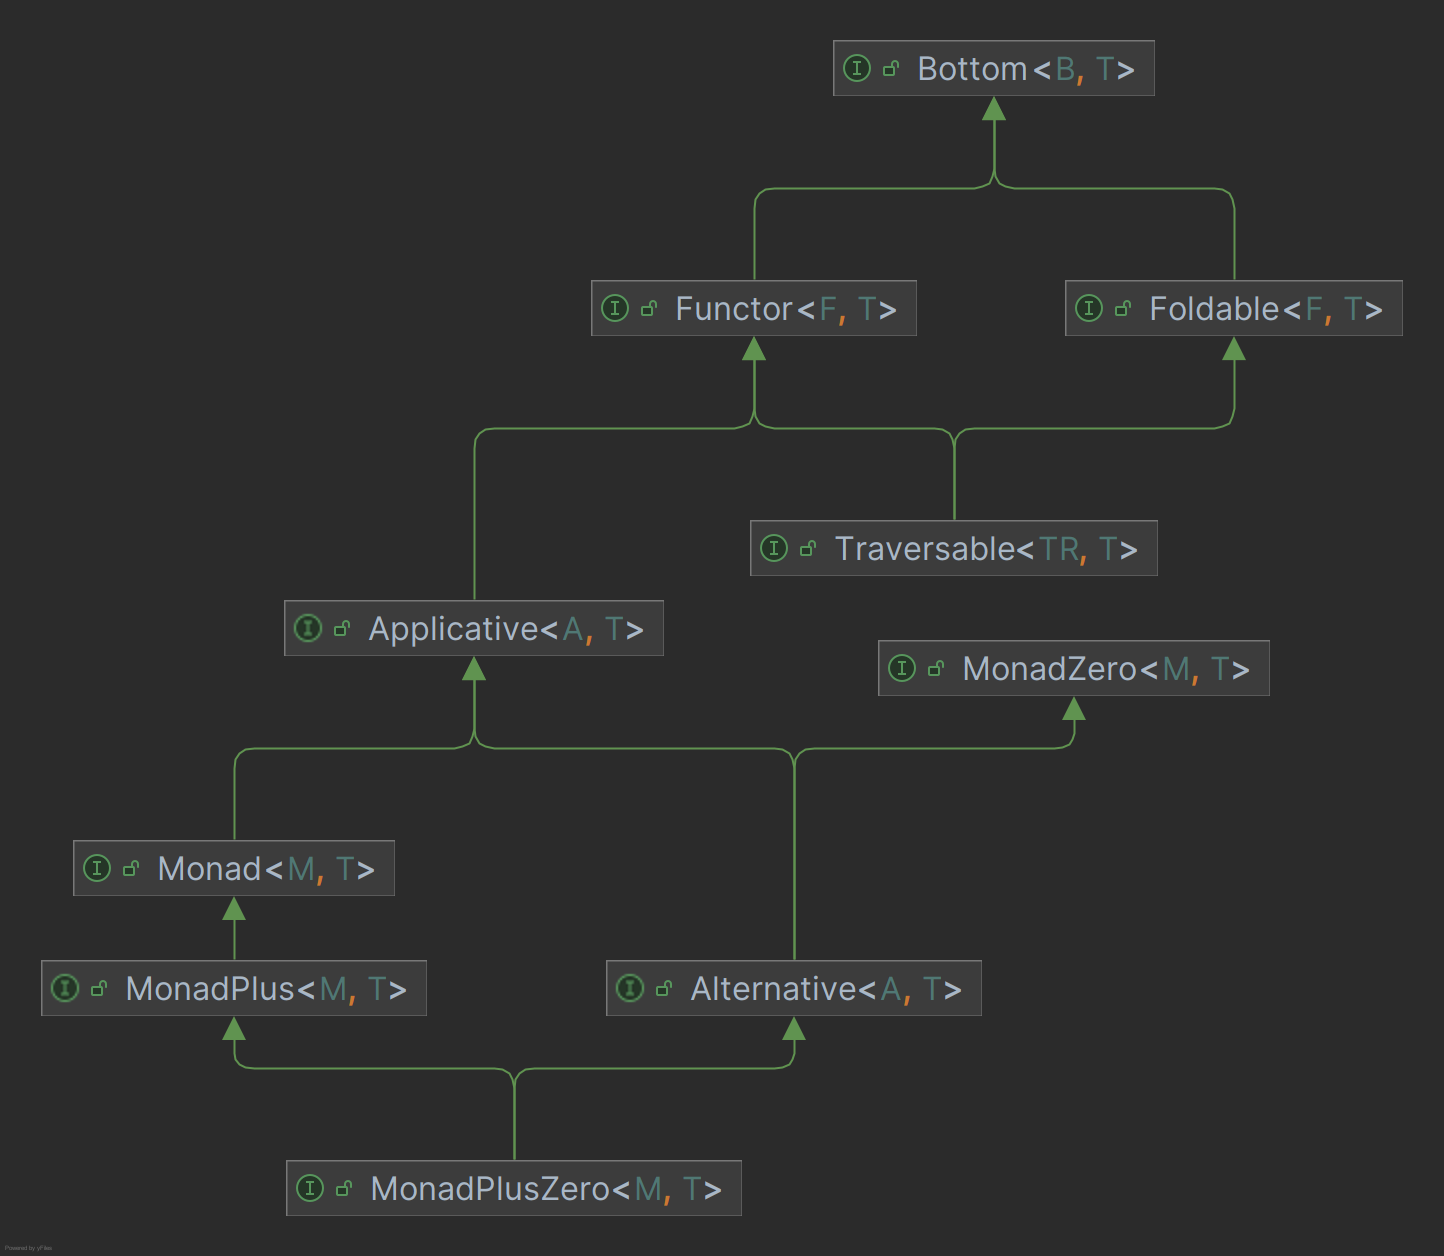
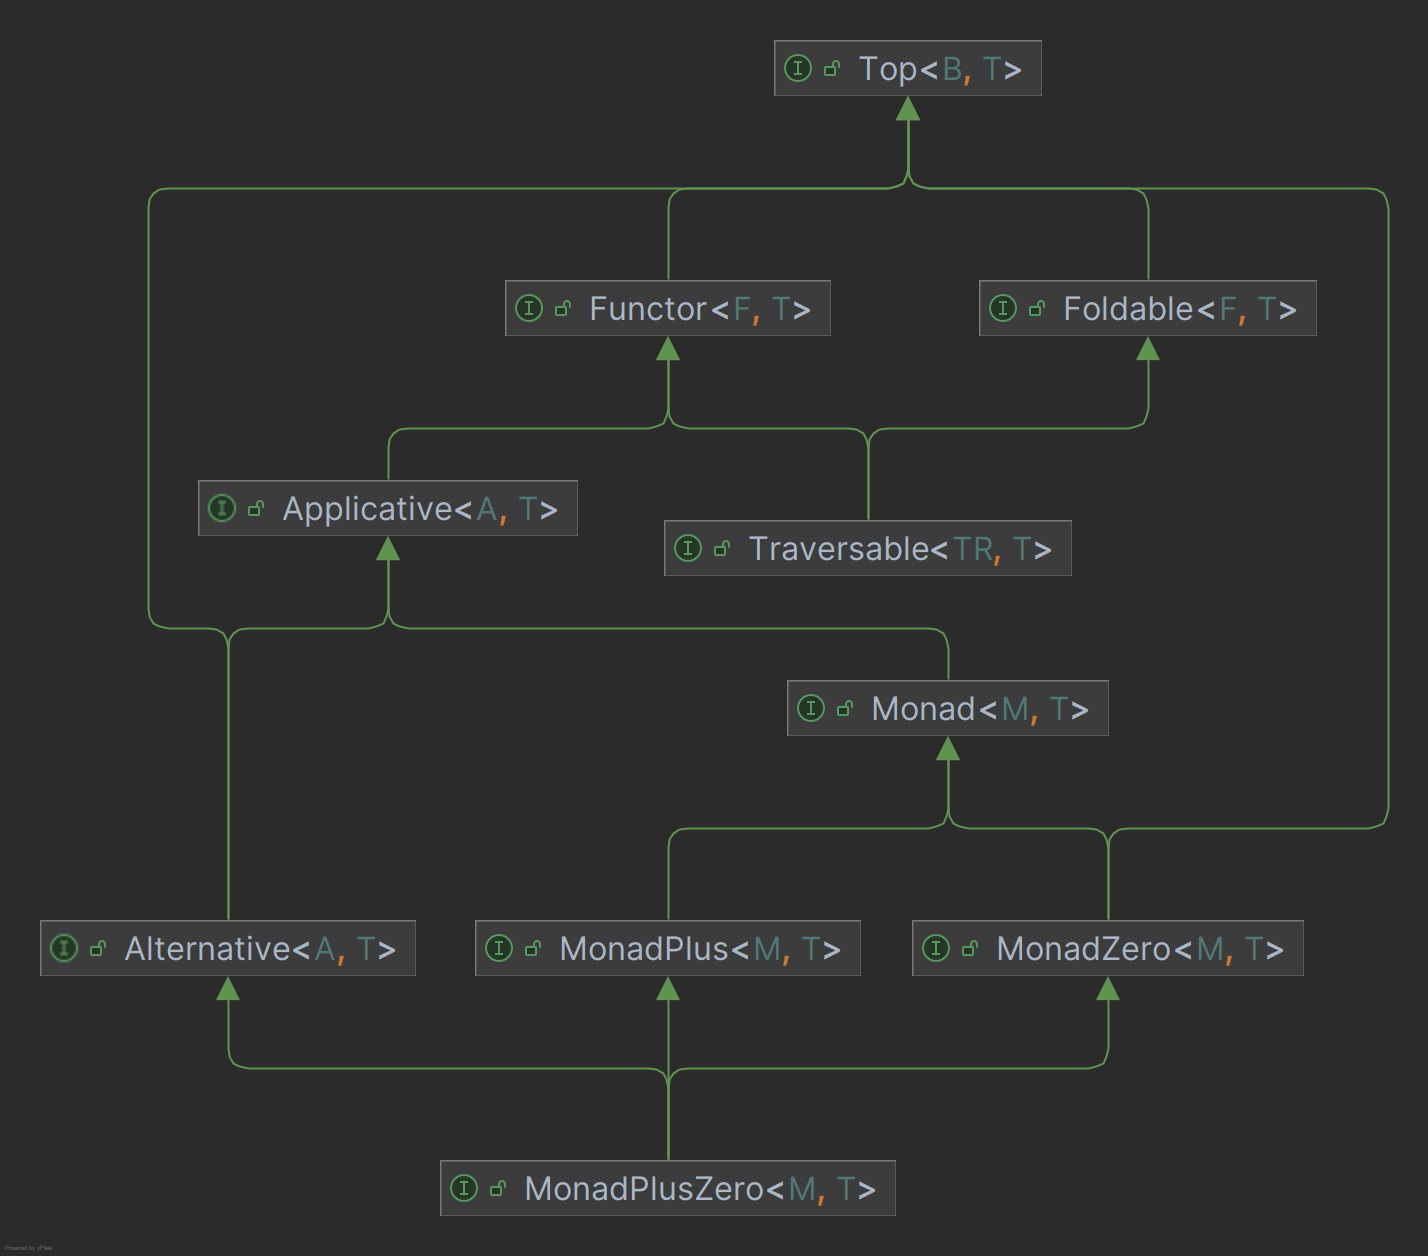
documentation

diff --git a/monad-experiment/README.md b/monad-experiment/README.md
@@ -44,7 +44,7 @@ public class Maybe<T> implements Monad<Maybe<?>, T> {
     private static final Maybe<Void> nothing = new Maybe<>(null);
     private final T value;
 
-    @MonadConstructor
+    @ApplicativeConstructor
     public Maybe(T value) {
         this.value = value;
     }
@@ -109,7 +109,45 @@ The following classes are basically Monads:
 The benefit of unifying all Monads with a dedicated class, is the ability to write generic code.
 Of course this requires more than just the Monad interface. Take Haskell for example, there are multiple classes 
 describing the abilities of types.
-![implemented_interfaces](docs/interfaces.png)
-If these Types are provided, more abstract functionalities can be provided.
+![implemented_interfaces](docs/558px-FunctorHierarchy.svg.png)
+If these Types are given, more abstract functionalities can be provided.
 
+Existing libraries often provide useful monads. Sadly they don't offer ways to write common code for these monads. Utility
+functions have to be rewritten for each monad, which heavily increases the amount boilerplate code. Many small but useful functions,
+can be composed to the required task. This enforces code reuse and promotes functional paradigm. 
 
+This projects type hierarchy is inspired by the haskell hierarchy seen above. Key differences are the splitting of
+Haskell's `MonadPlus` into `MonadZero`, `MonadPlus` and `MonadPlusZero` and the introduction of the `Top` type as a 
+common ancestor to the other types.
+
+![type_hierarchy](docs/interfaces.png)
+
+### Monad Libraries is Java
+
+#### [Vavr](https://github.com/vavr-io/vavr/tree/master)
+One of the more known functional-programming libraries for java is [vavr](https://github.com/vavr-io/vavr/tree/master). 
+Vavr comes with a lot of functionality which can be considered a small standard-library. It provides not only
+immutable data-structures, an altered collections library, property-based testing and more expressive function-interfaces but monadic data-types as well. 
+Among these types are types similar to existing java types like `Option` (similar to `Optional`) and `Future` (similar to `CompletableFuture`).
+`Option` and `Future` repackage existing functionality in a vavr like fashion. Other types like `Try` or `Either` are novel to the java ecosystem.
+`Either` is similar to `Option`, but failure now relates to a value, for example the reason why the computation has failed.
+`Try` is used to manipulate the control flow in applications. When an `Exception` is thrown, the control-flow differs from the data flow.
+`Try` abstracts computations that might throw exceptions, exceptions don't interrupt the data-flow anymore. Control flows like usually.  
+
+The `io.vavr.Value` type, which is the top-type of all monadic values in vavr, is more similar to a Functor/Alternative combination. A `Value` must
+have a `map` function (Functor) to and can be checked for emptiness (Alternative without the Applicative parts - no pure function).
+
+### [Better Monads](https://github.com/jasongoodwin/better-java-monads/tree/master)
+
+[Better Monads](https://github.com/jasongoodwin/better-java-monads/tree/master) is a small java library trying to improve the
+java 8 experience with a `Try` type. The `Try` type offers similar functionality to vavrs-Try. Better monads includes a static
+`sequence` Function to transform a `List` of `CompletableFuture`s into a `CompletableFuture` of a `List` 
+(`List<CompletableFuture<X>>` -> `CompletableFuture<List<X>>`). This library tries to be non-intrusive.
+
+### [purefun](https://github.com/tonivade/purefun/tree/master)
+
+[purefun](https://github.com/tonivade/purefun/tree/master) is a functional java library similar to this one.
+It offers Monads (and implementations for many monads) and similar types (Monoid, Applicative, Functor, Foldable, etc...) and other things known from haskell
+like optics (updating of nested structures) monad-transformers. All Monads from this library share a common base type.
+//TODO write more
+//basically the same as this lib but more powerful

diff --git a/monad-macro/README.md b/monad-macro/README.md
@@ -68,3 +68,19 @@ do
 * `getValueC` is a one argument funciton returning a monadic value of the monad M
 * `someOperation` is a no argument function returing a monadic value of the monad M
 * `getValueD` is a one argument function retuning a value
+
+## Monads in Clojure
+
+* Sequence (flatMap/list, for as do-Notation)
+* implicit Identity (do-Notation as let-Expression)
+
+
+### [algo.monads](https://github.com/clojure/algo.monads)
+
+[algo.monads](https://github.com/clojure/algo.monads) is a clojure library for monads. It supports different monads and utilities.  
+
+* Support for many different monads (Id, Maybe, Sequence, State, ...)
+* Support for some monad-transformers (State, Maybe, Sequence)
+* do-Notation as Macro for Monads
+
+algo.monads is written in clojure and can't be used from java.
